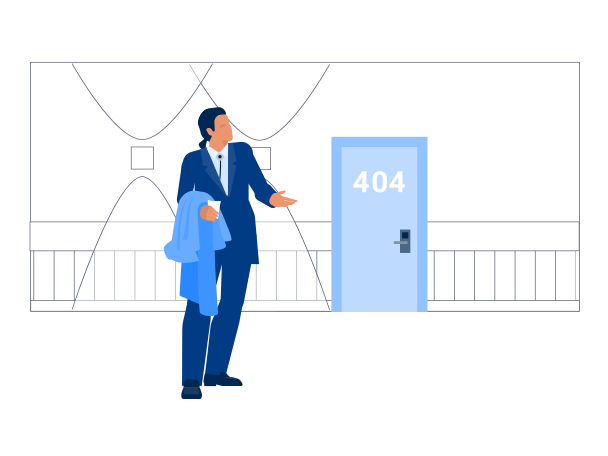
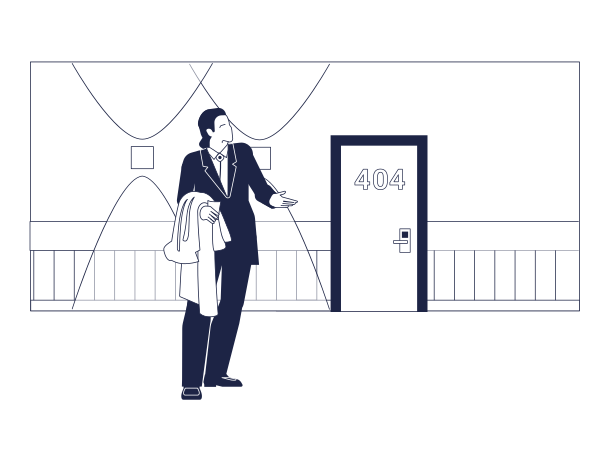
🖌🖌🖌

diff --git a/templates/encuestados/personal.html b/templates/encuestados/personal.html
@@ -1,5 +1,9 @@
 {% extends './navbars/baseencuestado.html' %}
 
+{%
+set icon_size = '28px'
+%}
+
 {% block title %}Página Personal{% endblock %}
 
 {% block body %}
@@ -80,29 +84,31 @@
   }
 </style>
 
-<div class="box">
-  <div class="row m-0 content">
-    <p style="font-family: var(--bs-body-font-family) ">
-      ¡Bienvenido! {{ dpers.0 }} {{ dpers.1 }} {{ dpers.2 }} {{ dpers.3 }}. Esta es tu página personal.<br>
-      Acá deberías poder cambiar tus preferencias y ver tus encuestas respondidas.<br>
-      No podrás ver tus respuestas, por motivos de seguridad.<br>
-      <br>
-      Utiliza este apartado para agregar una categoría nueva.
+<center>
 
-      <!-- Acción -->
+  <div class="box">
+    <div class="row m-0 content">
+      <p style="font-family: var(--bs-body-font-family) ">
+        ¡Bienvenido! {{ dpers.0 }} {{ dpers.1 }} {{ dpers.2 }} {{ dpers.3 }}. Esta es tu página personal.<br>
+        Acá deberías poder cambiar tus preferencias y ver tus encuestas respondidas.<br>
+        No podrás ver tus respuestas, por motivos de seguridad.<br>
+        <br>
+        Utiliza este apartado para agregar una categoría nueva.
+
+        <!-- Acción -->
       <form action="/profile" method="POST">
 
         <!-- Combobox -->
-        <select class="form-select" name="nuevapref"  style='max-width:15%;'>
+        <select class="form-select" name="nuevapref" style='max-width:15%;'>
 
           <!-- Opción Inicial-->
-          <option value = "0" selected>Seleccionar categoría</option>
-          
+          <option value="0" selected>Seleccionar categoría</option>
+
           <!--Opciones Seleccionables-->
           {% for nopref in nopreferidas %}
           <div class="card-body">
             <!-- 0.0: ID, 0.1: Etiqueta.-->
-            <option value="{{ nopref.0.0 }}" > {{nopref.0.1}} </option>
+            <option value="{{ nopref.0.0 }}"> {{nopref.0.1}} </option>
           </div>
           {% endfor %}
         </select>
@@ -111,52 +117,55 @@
         <button type="submit" class="mt-4 btn btn-primary">Agregar Preferencia</button>
       </form>
 
-    <div class="split left">
-      <div class="centered">
-        <div class="card bg-light mb-3" style="position:relative; width: 100%; height: 100%;">
-          <div class="card-body">
-            <div class="card-header">Preferencias</div>
-            <div class="card bg-light mb-3 col-lg-12">
-              {% for categoria in categorias %}
-              <div class="card-body">
-                <div class="text" style="text-align: center;">{{categoria.1}}
-                  <a href="/delete_cat/{{id}}/{{categoria.0}}" class="btn btn-danger btn-sm"
-                  data-bs-toggle="tooltip" title="Eliminar">X</a></div>
-              </div>
-              {% endfor %}
-            </div>
-          </div>
-        </div>
-
-      </div>
-    </div>
-
-    <div class="split right">
-      <div class="centered">
-        <div class="card bg-light mb-3" style="position:relative; width: 100%; height: 100%;">
-          <div class="card-body">
-            <div class="card-header">Encuestas Contestadas</div>
-            <div class="card bg-light mb-3 col-lg-12">
-              {% for form in forms %}
-              <div class="card-body">
-                <div class="text" style="text-align: center;">{{form.0}}<br></div>
+      <div class="split left">
+        <div class="centered">
+          <div class="card bg-light mb-3" style="position:relative; width: 100%; height: 100%;">
+            <div class="card-body">
+              <div class="card-header">Preferencias</div>
+              <div class="card bg-light mb-3 col-lg-12">
+                {% for categoria in categorias %}
+                <div class="card-body">
+                  <div class="text" style="text-align: center;">{{categoria.1}}
+                    <a href="/delete_cat/{{id}}/{{categoria.0}}" data-bs-toggle="tooltip"
+                      title="Eliminar">
+                      <img src="/static/images/delete.png" style="width: {{icon_size}};;height: auto;">
+                    </a>
+                  </div>
+                </div>
+                {% endfor %}
               </div>
             </div>
           </div>
-          {% endfor %}
+
         </div>
       </div>
-    </div>
 
-    </p>
+      <div class="split right">
+        <div class="centered">
+          <div class="card bg-light mb-3" style="position:relative; width: 100%; height: 100%;">
+            <div class="card-body">
+              <div class="card-header">Encuestas Contestadas</div>
+              <div class="card bg-light mb-3 col-lg-12">
+                {% for form in forms %}
+                <div class="card-body">
+                  <div class="text" style="text-align: center;">{{form.0}}<br></div>
+                </div>
+              </div>
+            </div>
+            {% endfor %}
+          </div>
+        </div>
+      </div>
+
+      </p>
+
+    </div>
 
   </div>
 
-</div>
+  <div class="row footer">
 
-<div class="row footer">
-
-  <!--
+    <!--
 
   <li class="nav-item dropdown">
 
@@ -173,8 +182,8 @@
   </li>
     -->
 
-  
 
-</div>
 
+  </div>
+</center>
 {%endblock%}

diff --git a/templates/index.html b/templates/index.html
@@ -9,11 +9,18 @@
 <center>
       <div>
             <h2 style="margin-top: 1%;">
-                  ¡Bienvenido a Encuestas Peepo! <br>
-                  En esta página encontrarás variadas encuestas para contestar. <br>
-                  Comienza iniciando sesión, o registrándote si no lo estás.<br>
+                  <b>
+                        ¡Bienvenido a Encuestas Peepo! <br>
+                        En esta página encontrarás variadas encuestas para contestar. <br>
+                        Comienza
+                        <a href="/login">iniciando sesión</a>
+                        , o 
+                        <a href="/register">registrándote</a>
+                         si no lo estás.<br>
+                  </b>
             </h2>
-            <img style="margin-bottom: 2%; margin-top: 1%; filter: grayscale(100); max-width:30%;" src="/static/images/index.webp" width="auto" height="auto">
+            <img style="margin-bottom: 0%; margin-top: 1%; max-width:50%;"
+                  src="/static/images/index.png" width="auto" height="auto">
       </div>
 </center>
 {% endblock %}

diff --git a/templates/encuestados/index.html b/templates/encuestados/index.html
@@ -6,9 +6,11 @@
 <center>
       <div>
             <h1 style="margin-top: 1%;">
-                  Bienvenido, estás conectado como un encuestado.<br>
+                  <b>
+                        Bienvenido, estás conectado como un encuestado.<br>
+                  </b>
             </h1>
-            <img src="/static/images/index_login.svg" width="30%" height="auto" style="margin-top: 1%;">
+            <img src="/static/images/index_login.png" max-width="50%" height="auto" style="margin-top: 1%;">
       </div>
 </center>
 {% endblock %}

diff --git a/templates/encuestadores/index.html b/templates/encuestadores/index.html
@@ -6,9 +6,11 @@
 <center>
       <div>
             <h1 style="margin-top: 1%;">
-                  Bienvenido, estás conectado como un encuestador.<br>
+                  <b>
+                        Bienvenido, estás conectado como un encuestador.<br>
+                  </b>
             </h1>
-            <img src="/static/images/index_login.svg" width="30%" height="auto" style="margin-top: 1%;">
+            <img src="/static/images/index_login.png" max-width="50%" height="auto" style="margin-top: 1%;">
       </div>
 </center>
 
